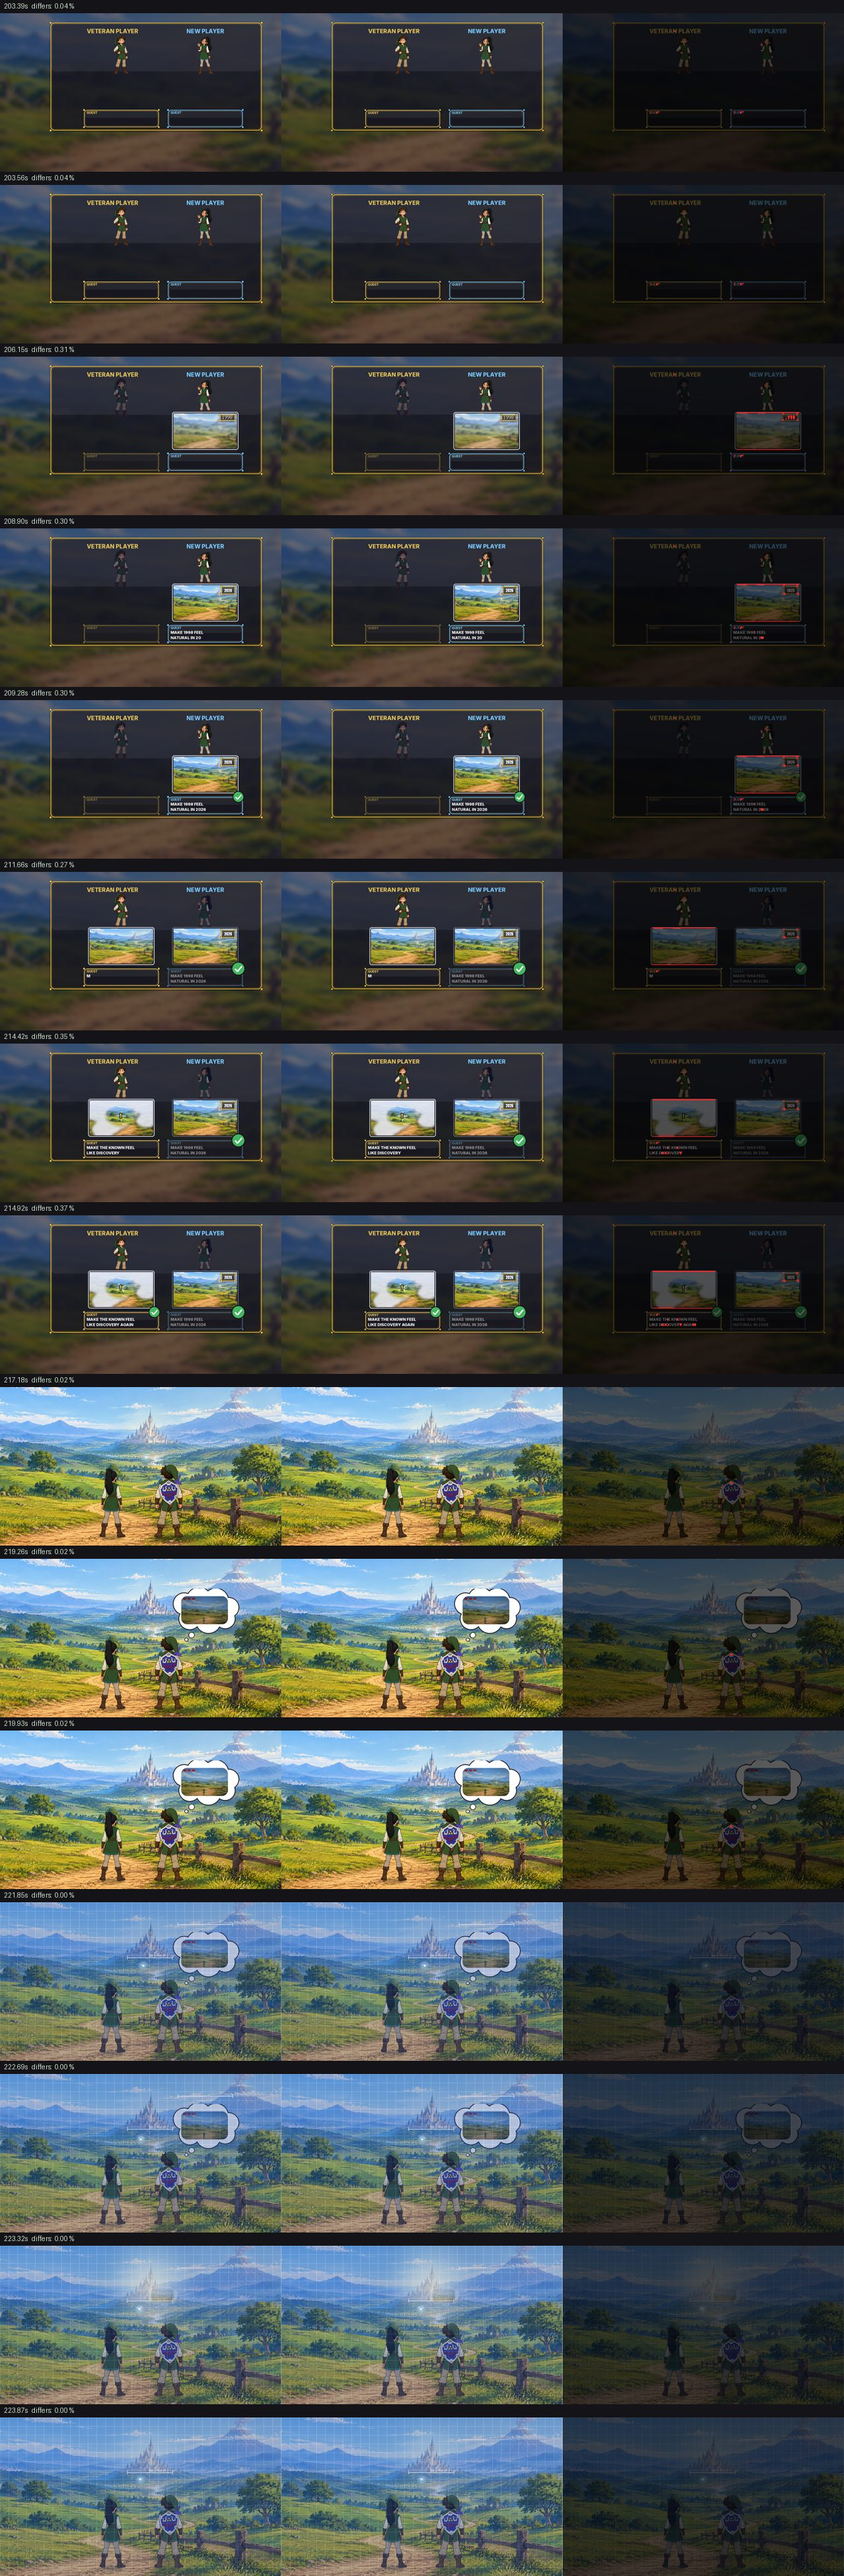
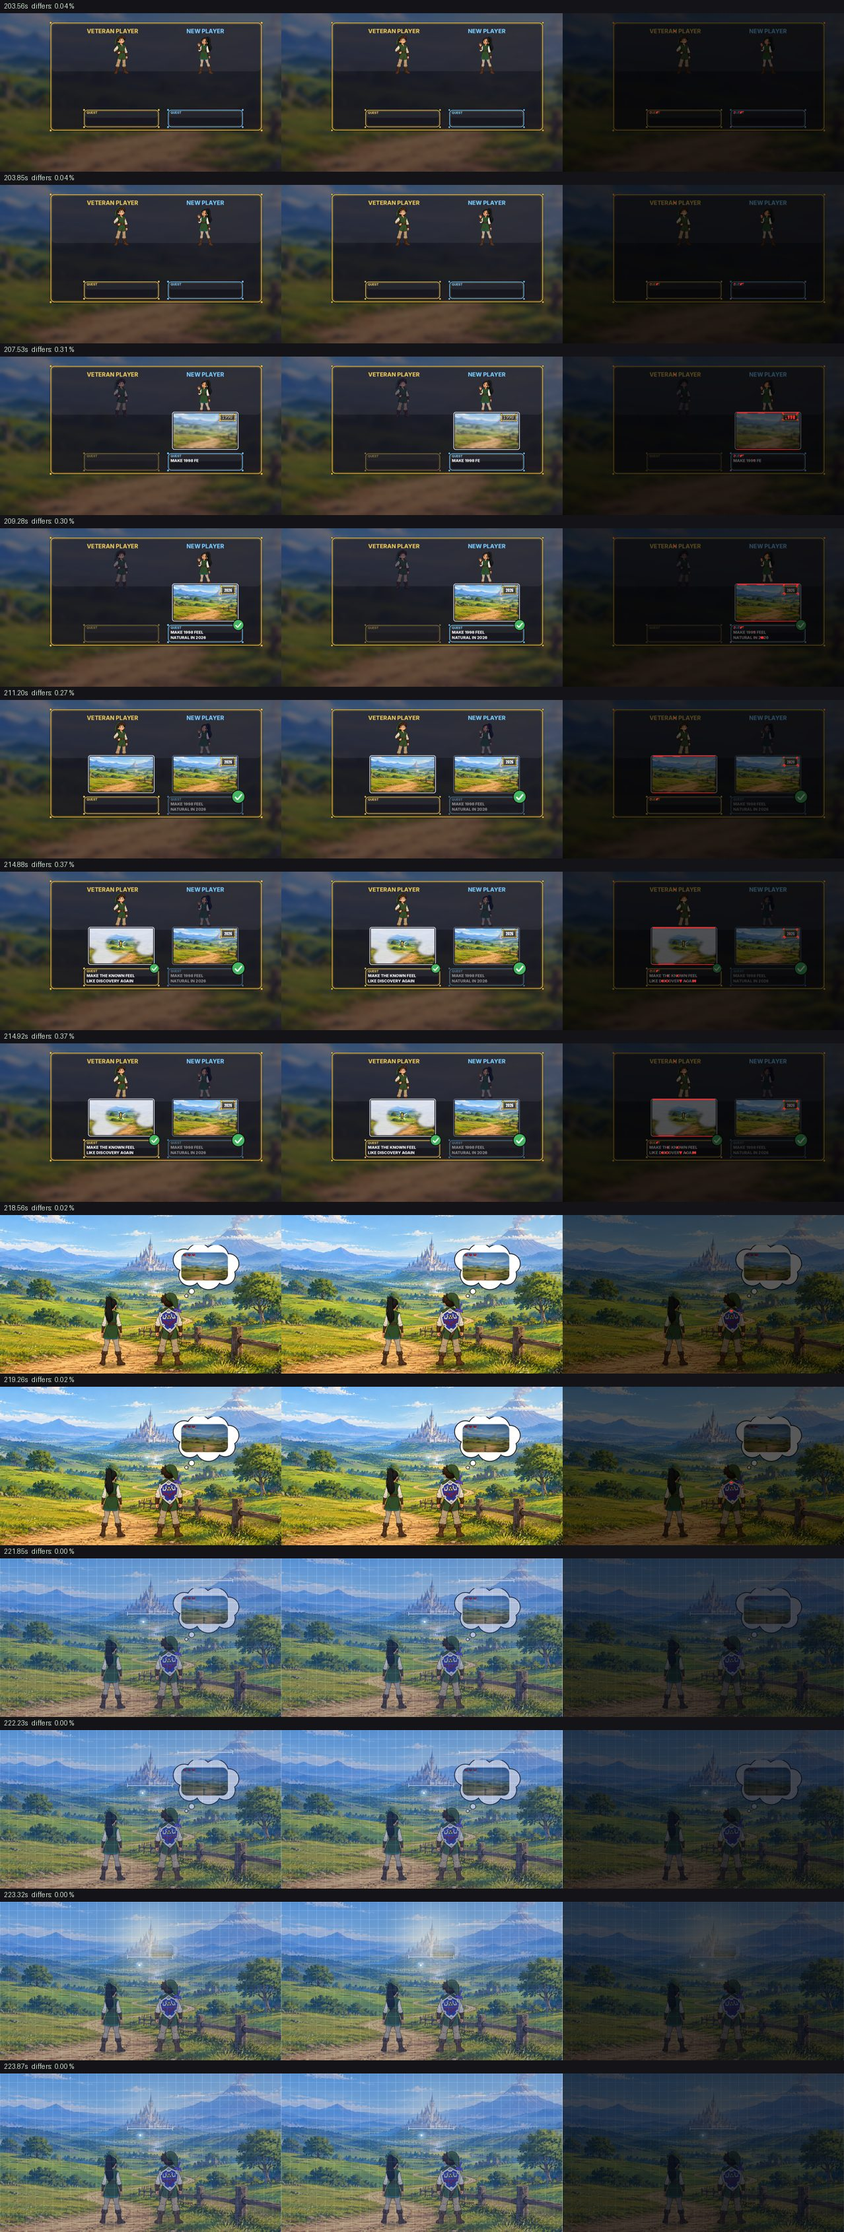
Animatic: blocks I-N adapted to design units (scale check 0.2-1.5 %); K's 1998 picture drawn at design size
Claude-Session: https://claude.ai/code/session_01Bi3PXNKGSfsqTH99bT8fk5

diff --git a/secondquest/scripts/ep002-blockN-animatic.py b/secondquest/scripts/ep002-blockN-animatic.py
@@ -32,7 +32,7 @@ import imageio_ffmpeg
 HERE = Path(__file__).resolve().parent
 sys.path.insert(0, str(HERE / 'animatic'))
 sys.path.insert(0, str(HERE.parent / 'tools/fx'))
-from lib import ROOT, W, H, FPS, T, ease, lin, final, final_plate, subtitle, tag, F, adult_walk_frame, S, Si, P, out_path, video_args, audio_args  # noqa
+from lib import ROOT, W, H, FPS, T, ease, lin, final, final_plate, subtitle, tag, F, adult_walk_frame, S, Si, P, U, PW, out_path, video_args, audio_args  # noqa
 import fairy as fairy_fx  # noqa
 import ui_kit as UI  # noqa: the approved on-screen text style (2026-10-06)
 
@@ -65,7 +65,7 @@ ADULT = final('quest_adult_back')                                           # fi
 ADULT_PULL = adult_walk_frame(gear=False)                                   # final art #4b: adult back, no gear (he just pulled the sword)
 QX, QFEET = W * .5, H * .93
 YH, AH = H * .30, H * .44
-SW_PLATE = 1280 / 1920                                                      # plate px -> frame px
+SW_PLATE = W / PW                                                           # working plate px -> frame px
 SWORD = BL.SWD[12].transpose(Image.FLIP_TOP_BOTTOM)
 SWORD = sized(SWORD.crop(SWORD.getchannel('A').getbbox()), int(BL.TEMPLE_SWORD_H * SW_PLATE))   # same size as in block L's picture
 PED_X = BL.TEMPLE_SLOT[0] * SW_PLATE                                        # the slot on the pedestal of plate #13
@@ -75,7 +75,7 @@ _a = np.asarray(TEMPLE_P).astype(np.int16)
 _yy = np.mgrid[0:H, 0:W][0]
 _xx = np.mgrid[0:H, 0:W][1]
 SKY = ((_a[..., 2] >= _a[..., 0] - 4) & (_a[..., 2] > 150) & (_yy < H * .44) & (_xx > W * .32) & (_xx < W * .69)).astype(np.uint8) * 255
-SKY = Image.fromarray(SKY).filter(ImageFilter.MaxFilter(3)).filter(ImageFilter.GaussianBlur(2))   # the windows' sky (for the storm)
+SKY = Image.fromarray(SKY).filter(ImageFilter.MaxFilter(2 * Si(1) + 1)).filter(ImageFilter.GaussianBlur(S(2)))   # the windows' sky (for the storm)
 
 
 # ------------------------------------------------------------------ the temple, inside (final art #13)
@@ -85,7 +85,7 @@ def storm_sky(t):
     a[:] = np.array([60, 14, 26]) * (1 - yy * 2.2).clip(0, 1) + np.array([170, 60, 50]) * (yy * 2.2).clip(0, 1)
     im = Image.fromarray(a.clip(0, 255).astype(np.uint8)); d = ImageDraw.Draw(im)
     if (t * 3.1) % 1 < .07:                                                 # lightning in the central window
-        d.line((W * .52, H * .03, W * .48, H * .15, W * .51, H * .18, W * .47, H * .32), fill=(255, 240, 255), width=4)
+        d.line((W * .52, H * .03, W * .48, H * .15, W * .51, H * .18, W * .47, H * .32), fill=(255, 240, 255), width=Si(4))
     return im
 
 
@@ -101,33 +101,33 @@ def temple(t, storm=0.0, light_ang=0.0, age=0.0, sword=True, sword_rise=0.0, swo
     if light_ang:                                                           # the window light swings round in the time-lapse
         lc = (255, 240, 205) if storm < .5 else (255, 120, 100)
         sx = W * .5 + math.sin(light_ang) * W * .25
-        sh = Image.new('RGBA', (W, H)); ImageDraw.Draw(sh).polygon(((W * .47, H * .05), (W * .53, H * .05), (sx + 130, H * .62), (sx - 130, H * .62)), fill=lc + (int(60 * (1 - .4 * storm)),))
-        im = Image.alpha_composite(im.convert('RGBA'), sh.filter(ImageFilter.GaussianBlur(12))).convert('RGB')
+        sh = Image.new('RGBA', (W, H)); ImageDraw.Draw(sh).polygon(((W * .47, H * .05), (W * .53, H * .05), (sx + S(130), H * .62), (sx - S(130), H * .62)), fill=lc + (int(60 * (1 - .4 * storm)),))
+        im = Image.alpha_composite(im.convert('RGBA'), sh.filter(ImageFilter.GaussianBlur(S(12)))).convert('RGB')
         d = ImageDraw.Draw(im, 'RGBA')
     if age > 0:                                                             # the years: cobwebs and cracks
         a = int(200 * age)
         for (cx, cy, sxn, syn) in ((W * .235, 0, 1, 1), (W * .765, 0, -1, 1)):
             for k in range(5):
-                rr = 30 + 26 * k * age
-                d.arc((cx - rr, cy - rr, cx + rr, cy + rr), 0 if sxn > 0 else 90, 90 if sxn > 0 else 180, fill=(235, 235, 240, a), width=2)
+                rr = S(30 + 26 * k * age)
+                d.arc((cx - rr, cy - rr, cx + rr, cy + rr), 0 if sxn > 0 else 90, 90 if sxn > 0 else 180, fill=(235, 235, 240, a), width=Si(2))
             for k in range(4):
                 ang = math.pi / 2 * (k / 3) if sxn > 0 else math.pi / 2 + math.pi / 2 * (k / 3)
-                d.line((cx, cy, cx + math.cos(ang) * 140 * age, cy + math.sin(ang) * 140 * age), fill=(235, 235, 240, a), width=2)
+                d.line((cx, cy, cx + math.cos(ang) * S(140) * age, cy + math.sin(ang) * S(140) * age), fill=(235, 235, 240, a), width=Si(2))
         r = np.random.default_rng(21)
         for (x, y) in ((W * .27, H * .16), (W * .62, H * .10), (W * .86, H * .30)):
             pts = [(x, y)]
             for s_ in range(5):
-                x += (r.random() - .5) * 40; y += 26 * age
+                x += (r.random() - .5) * S(40); y += S(26) * age
                 pts.append((x, y))
-            d.line(pts, fill=(50, 40, 50, a), width=3)
-    im = CART.glow(im, PED_X, PED_TOP - 60, 140, (200, 230, 255) if storm < .5 else (255, 140, 120), .35)
+            d.line(pts, fill=(50, 40, 50, a), width=Si(3))
+    im = CART.glow(im, PED_X, PED_TOP - S(60), S(140), (200, 230, 255) if storm < .5 else (255, 140, 120), .35)
     if sword and sword_a > 0:                                               # sword_rise: drawn up out of the stone (px)
         vis = int(SWORD.height * .78 + sword_rise)
         clip = Image.new('L', SWORD.size, 0); ImageDraw.Draw(clip).rectangle((0, 0, SWORD.width, vis), fill=255)
         s2 = SWORD.copy(); s2.putalpha(Image.fromarray(np.minimum(np.asarray(SWORD.getchannel('A')), np.asarray(clip))))
         if sword_rise > 0:
-            im = CART.glow(im, PED_X, PED_TOP - 60 - sword_rise, 110, (220, 240, 255), min(.7, sword_rise / 40))
-        im = comp(im, fade(s2, sword_a), PED_X - SWORD.width / 2, PED_TOP + 2 - vis)
+            im = CART.glow(im, PED_X, PED_TOP - S(60) - sword_rise, S(110), (220, 240, 255), min(.7, sword_rise / S(40)))
+        im = comp(im, fade(s2, sword_a), PED_X - SWORD.width / 2, PED_TOP + S(2) - vis)
     if storm > 0:
         im = Image.blend(im, Image.new('RGB', im.size, (60, 10, 20)), .15 * storm)
     return im
@@ -135,12 +135,12 @@ def temple(t, storm=0.0, light_ang=0.0, age=0.0, sword=True, sword_rise=0.0, swo
 
 def quest(fr, h, a=1.0, x=QX, feet=QFEET, adult=False):
     q = sized(ADULT_PULL if adult == 'pull' else ADULT if adult else YOUNG, h)
-    sh = Image.new('RGBA', (W, H)); ImageDraw.Draw(sh).ellipse((x - q.width * .4, feet - 10, x + q.width * .4, feet + 8), fill=(0, 0, 0, int(80 * a)))
-    fr = Image.alpha_composite(fr.convert('RGBA'), sh.filter(ImageFilter.GaussianBlur(5))).convert('RGB')
+    sh = Image.new('RGBA', (W, H)); ImageDraw.Draw(sh).ellipse((x - q.width * .4, feet - S(10), x + q.width * .4, feet + S(8)), fill=(0, 0, 0, int(80 * a)))
+    fr = Image.alpha_composite(fr.convert('RGBA'), sh.filter(ImageFilter.GaussianBlur(S(5)))).convert('RGB')
     return comp(fr, fade(q, a), x - q.width / 2, feet - q.height)
 
 
-RISE = 30                                                                   # how far the sword comes up out of the stone (px)
+RISE = S(30)                                                                # how far the sword comes up out of the stone (px)
 STEP0, STEP_D = T('l103') - .05, .45                                        # his step up to the pedestal
 
 
@@ -150,12 +150,13 @@ def flower(fr, k):
     scaled down for clean edges."""
     if k <= 0:
         return fr
-    S = 3                                                                    # supersampling
-    gw, gh = 90 * S, 120 * S
+    SUP = 3                                                                  # supersampling
+    SS = SUP * U                                                             # sprite px per design px
+    gw, gh = int(90 * SS), int(120 * SS)
     g = Image.new('RGBA', (gw, gh)); d = ImageDraw.Draw(g)
-    bx, by = gw * .5, gh - 6 * S                                             # root, in the sprite
+    bx, by = gw * .5, gh - 6 * SS                                             # root, in the sprite
     grow = ease(min(1, k / .35)); bloom = ease(min(1, max(0, (k - .25) / .25))); wilt = ease(min(1, max(0, (k - .62) / .38)))
-    L = 64 * S * grow
+    L = 64 * SS * grow
     droop = 1.4 * wilt
     pts = [(bx, by)]
     for i in range(1, 11):                                                   # a gently curved stem that bends over as it dies
@@ -165,30 +166,30 @@ def flower(fr, k):
         pts.append((x + L / 10 * math.cos(a), y + L / 10 * math.sin(a)))
     stem = tuple(int(lin(c0, c1, wilt)) for c0, c1 in zip((86, 160, 70), (130, 100, 56)))
     ink = (40, 30, 34, 255)
-    if L > 2 * S:
-        d.line(pts, fill=ink, width=5 * S, joint='curve'); d.line(pts, fill=stem + (255,), width=3 * S, joint='curve')
+    if L > 2 * SS:
+        d.line(pts, fill=ink, width=round(5 * SS), joint='curve'); d.line(pts, fill=stem + (255,), width=round(3 * SS), joint='curve')
         for j, side in ((3, -1), (5, 1)):                                   # two little leaves
-            lx, ly = pts[j]; sz = 11 * S * grow * (1 - .3 * wilt)
-            leaf = [(lx, ly), (lx + side * sz * .6, ly - sz * .7), (lx + side * sz * 1.2, ly - sz * .2 + 8 * S * wilt), (lx + side * sz * .5, ly + sz * .15)]
-            d.polygon(leaf, fill=stem + (255,), outline=ink, width=S)
+            lx, ly = pts[j]; sz = 11 * SS * grow * (1 - .3 * wilt)
+            leaf = [(lx, ly), (lx + side * sz * .6, ly - sz * .7), (lx + side * sz * 1.2, ly - sz * .2 + 8 * SS * wilt), (lx + side * sz * .5, ly + sz * .15)]
+            d.polygon(leaf, fill=stem + (255,), outline=ink, width=round(SS))
     hx, hy = pts[-1]
     if bloom > 0:
         outer = tuple(int(lin(c0, c1, wilt)) for c0, c1 in zip((246, 128, 172), (150, 100, 80)))
         inner = tuple(int(lin(c0, c1, wilt)) for c0, c1 in zip((255, 196, 220), (170, 130, 100)))
-        R = 9 * S * bloom * (1 - .25 * wilt)
+        R = 9 * SS * bloom * (1 - .25 * wilt)
         n = 8 - int(5 * wilt)                                                # petals fall as it withers
         for ring, (rr, col, off) in enumerate(((R, outer, 0.0), (R * .62, inner, math.pi / 8))):
             for j in range(n if ring == 0 else max(0, n - 2)):
                 a = j * 2 * math.pi / 8 + off
                 px, py = hx + math.cos(a) * rr, hy + math.sin(a) * rr * .85
-                d.ellipse((px - rr * .62, py - rr * .5, px + rr * .62, py + rr * .5), fill=col + (255,), outline=ink, width=S)
-        d.ellipse((hx - R * .32, hy - R * .32, hx + R * .32, hy + R * .32), fill=(252, 214, 96, 255), outline=ink, width=S)
+                d.ellipse((px - rr * .62, py - rr * .5, px + rr * .62, py + rr * .5), fill=col + (255,), outline=ink, width=round(SS))
+        d.ellipse((hx - R * .32, hy - R * .32, hx + R * .32, hy + R * .32), fill=(252, 214, 96, 255), outline=ink, width=round(SS))
         d.ellipse((hx - R * .12, hy - R * .2, hx + R * .04, hy - R * .05), fill=(255, 245, 200, 255))      # a little highlight
         for j in range(4 if wilt > .25 else 0):                              # fallen petals on the floor
-            fx = bx + (j - 1.5) * 12 * S + 10 * S
-            d.ellipse((fx - 5 * S, by - 3 * S, fx + 5 * S, by + 2 * S), fill=outer + (int(255 * min(1, wilt * 2)),), outline=ink, width=S)
-    g = g.resize((gw // S, gh // S), Image.LANCZOS)
-    return comp(fr, g, W * .40 - gw / S / 2, H * .585 - gh / S + 6)   # on the dais, by the pedestal
+            fx = bx + (j - 1.5) * 12 * SS + 10 * SS
+            d.ellipse((fx - 5 * SS, by - 3 * SS, fx + 5 * SS, by + 2 * SS), fill=outer + (int(255 * min(1, wilt * 2)),), outline=ink, width=round(SS))
+    g = g.resize((gw // SUP, gh // SUP), Image.LANCZOS)
+    return comp(fr, g, W * .40 - gw / SUP / 2, H * .585 - gh / SUP + S(6))   # on the dais, by the pedestal
 
 
 # ------------------------------------------------------------------ N1-N4
@@ -197,7 +198,7 @@ def n1_4(t):
         step = ease(min(1, max(0, (t - STEP0) / STEP_D)))                   # "then...": he steps up to it
         kr = ease(min(1, max(0, (t - STEP0 - STEP_D) / (T_NOT - STEP0 - STEP_D))))   # Producer: the sword comes up once he is there
         fr = temple(t, sword_rise=RISE * kr)
-        fr = quest(fr, YH * (1 + .08 * step), feet=QFEET - 26 * step)
+        fr = quest(fr, YH * (1 + .08 * step), feet=QFEET - S(26) * step)
         lab = 'N1 you were a child' if t < T('l103') - .05 else 'N2 then you were not'
     elif t < T_WORLD:                                                       # N2-N3: the adult, then he disappears
         kd = min(1, max(0, (t - T('l104.w2')) / .7))                         # "disappeared"
@@ -209,12 +210,12 @@ def n1_4(t):
             sw_top, sw_bot = PED_TOP - SWORD.height * .78 - RISE, PED_TOP
             for i in range(64):
                 if i < 40:
-                    x = QX + (r.random() - .5) * 120; y0 = QFEET - r.random() * AH
+                    x = QX + (r.random() - .5) * S(120); y0 = QFEET - r.random() * AH
                 else:
-                    x = QX + (r.random() - .5) * 40; y0 = lin(sw_top, sw_bot, r.random())
-                y = y0 - 140 * kd * (.5 + r.random()); s = 2 + 3 * r.random()
+                    x = QX + (r.random() - .5) * S(40); y0 = lin(sw_top, sw_bot, r.random())
+                y = y0 - S(140) * kd * (.5 + r.random()); s = S(2 + 3 * r.random())
                 d.ellipse((x - s, y - s, x + s, y + s), fill=(255, 250, 210, int(230 * (1 - kd ** 2))))
-            fr = Image.alpha_composite(fr.convert('RGBA'), g.filter(ImageFilter.GaussianBlur(1))).convert('RGB')
+            fr = Image.alpha_composite(fr.convert('RGBA'), g.filter(ImageFilter.GaussianBlur(S(1)))).convert('RGB')
         f = max(0, 1 - (t - T_NOT) / .45)                                   # the white flash on "not"
         if f > 0:
             fr = Image.blend(fr, Image.new('RGB', fr.size, (255, 255, 255)), .9 * f)
@@ -241,9 +242,9 @@ def push(fr, t):
         z = 1 + .12 * (1 - ease(min(1, (t - T_WORLD) / 1.6)))
     if z < 1.001:
         return fr
-    cx, cy = PED_X, PED_TOP - 60
+    cx, cy = PED_X, PED_TOP - S(60)
     w, h = W / z, H / z
-    x0 = min(max(cx - w / 2, 0), W - w); y0 = min(max(QFEET + 14 - h, 0), H - h)   # his feet stay in frame
+    x0 = min(max(cx - w / 2, 0), W - w); y0 = min(max(QFEET + S(14) - h, 0), H - h)   # his feet stay in frame
     return fr.crop((int(x0), int(y0), int(x0 + w), int(y0 + h))).resize((W, H), Image.BICUBIC)
 
 
@@ -256,39 +257,39 @@ LABEL = (.17, .31, .92, .87)                                                # th
 def n5_6(t):
     k = ease(min(1, (t - T_SIDE) / 1.2))
     temple_now = temple(T_SIDE, storm=1, age=1, sword=False)
-    cs = lin(W * 2.9, 520, k)                                               # the cartridge comes in from the label outwards
+    cs = lin(W * 2.9, S(520), k)                                               # the cartridge comes in from the label outwards
     cart = CARTRIDGE.resize((int(cs), int(cs * CARTRIDGE.height / CARTRIDGE.width)), Image.LANCZOS)
     cx, cy = W * .5, H * .44
     lx0, ly0 = cx - cart.width / 2 + cart.width * LABEL[0], cy - cart.height / 2 + cart.height * LABEL[1]
     lw, lh = cart.width * (LABEL[2] - LABEL[0]), cart.height * (LABEL[3] - LABEL[1])
     fr = Image.new('RGB', (W, H), (16, 14, 22))
-    fr = CART.glow(fr, cx, cy, int(420 * k) + 1, (255, 215, 120), .35 * k)
+    fr = CART.glow(fr, cx, cy, int(S(420) * k) + 1, (255, 215, 120), .35 * k)
     fr = comp(fr, cart, cx - cart.width / 2, cy - cart.height / 2)
     tl = temple_now.resize((max(1, int(lw)), max(1, int(lh))), Image.BILINEAR)   # the temple is the label's picture
     fr.paste(tl, (int(lx0), int(ly0)))
     if t >= T_DETAIL - .1 and t < T_GAME + .3:                              # the sticky note: "side detail?" crossed out
         ka = min(1, (t - T_DETAIL + .1) / .25) * (1 - min(1, max(0, (t - T_GAME) / .3)))
-        g = Image.new('RGBA', (230, 90)); gd = ImageDraw.Draw(g)
-        gd.rectangle((0, 0, 229, 89), fill=(255, 236, 120, 255), outline=(170, 140, 40, 255), width=2)
-        gd.text((14, 26), 'side detail?', font=F(25), fill=(60, 50, 30, 255))
+        g = Image.new('RGBA', (Si(230), Si(90))); gd = ImageDraw.Draw(g)
+        gd.rectangle((0, 0, Si(230) - 1, Si(90) - 1), fill=(255, 236, 120, 255), outline=(170, 140, 40, 255), width=Si(2))
+        gd.text((S(14), S(26)), 'side detail?', font=F(25), fill=(60, 50, 30, 255))
         kx = min(1, max(0, (t - T('l106.w6') - .2) / .3))                    # struck through after "detail"
         if kx > 0:
-            gd.line((10, 46, 10 + 210 * kx, 40), fill=(210, 30, 40, 255), width=6)
+            gd.line((S(10), S(46), S(10 + 210 * kx), S(40)), fill=(210, 30, 40, 255), width=Si(6))
         g = g.rotate(-7, resample=Image.BICUBIC, expand=True)
-        fr = comp(fr, fade(g, ka), cx + 160, cy + 120)
+        fr = comp(fr, fade(g, ka), cx + S(160), cy + S(120))
     lab = 'N5 not some side detail'
     if t >= T_GAME:
         kp = (t - T_GAME)
-        fr = CART.glow(fr, cx, cy, 380, (255, 225, 140), .35 + .25 * math.sin(kp * 7))
+        fr = CART.glow(fr, cx, cy, S(380), (255, 225, 140), .35 + .25 * math.sin(kp * 7))
         ks = min(1, max(0, (t - T_STAMP + .1) / .2))
         if ks > 0:                                                          # THE GAME stamp lands
-            st = Image.new('RGBA', (420, 110)); sd = ImageDraw.Draw(st)
-            sd.rounded_rectangle((4, 4, 415, 105), 12, outline=(232, 196, 90, 255), width=7, fill=(20, 18, 28, 220))
-            s = 'THE GAME'; sd.text((210 - sd.textlength(s, font=F(64)) / 2, 14), s, font=F(64), fill=(255, 226, 140, 255))
+            st = Image.new('RGBA', (Si(420), Si(110))); sd = ImageDraw.Draw(st)
+            sd.rounded_rectangle((S(4), S(4), S(415), S(105)), S(12), outline=(232, 196, 90, 255), width=Si(7), fill=(20, 18, 28, 220))
+            s = 'THE GAME'; sd.text((S(210) - sd.textlength(s, font=F(64)) / 2, S(14)), s, font=F(64), fill=(255, 226, 140, 255))
             st = st.rotate(-4, resample=Image.BICUBIC, expand=True)
             sc = 1.7 - .7 * ease(ks)
             st = st.resize((int(st.width * sc), int(st.height * sc)), Image.LANCZOS)
-            fr = comp(fr, fade(st, ks), cx - st.width / 2, cy + 150 - st.height / 2)
+            fr = comp(fr, fade(st, ks), cx - st.width / 2, cy + S(150) - st.height / 2)
         lab = 'N6 that is the game'
     return fr, lab
 
@@ -307,7 +308,7 @@ def n7(t):
     sl = int(lin(W, half, k))                                               # the adult era slides in from the right
     fr.paste(adult.crop((W // 4, 0, W // 4 + half, H)), (sl, 0))
     d = ImageDraw.Draw(fr)
-    d.line((sl, 0, sl, H), fill=(255, 255, 255), width=4)
+    d.line((sl, 0, sl, H), fill=(255, 255, 255), width=Si(4))
     for cx, s, gold, tk in ((W * .25, 'CHILD', True, T_TWO), (W * .75, 'ADULT', False, T('l108.w10'))):
         ka = min(1, max(0, (t - tk + .1) / .25))
         if ka <= 0:

diff --git a/secondquest/scripts/ep002-blockK-animatic.py b/secondquest/scripts/ep002-blockK-animatic.py
@@ -220,7 +220,7 @@ def thought_bubble(t, k, cloud=1.0):
         d.ellipse((S(x - r + 10), S(y - r + 10), S(x + r + 10), S(y + r + 10)), fill=(255, 255, 255, 250), outline=INK, width=Si(4))
     for (x, y, r) in ((60, 70, 56), (140, 50, 66), (230, 55, 66), (300, 90, 51), (90, 150, 56), (190, 160, 66), (280, 150, 51)):
         d.ellipse((S(x - r + 10), S(y - r + 10), S(x + r + 10), S(y + r + 10)), fill=(255, 255, 255, 255))
-    pic = crt_flicker(HB.old_picture(t, (Si(250), Si(150))), t)
+    pic = crt_flicker(HB.old_picture(t, (250, 150)).resize((Si(250), Si(150)), Image.NEAREST), t)   # drawn at design size: its scanlines scale too
     m = Image.new('L', (Si(250), Si(150)), 0); ImageDraw.Draw(m).rounded_rectangle((0, 0, Si(250) - 1, Si(150) - 1), S(30), fill=255)
     g.paste(pic, (Si(55), Si(40)), m)
     for i, (x, y, r) in enumerate(((110, 248, 16), (82, 272, 10))):       # the trail of little bubbles down to his head
